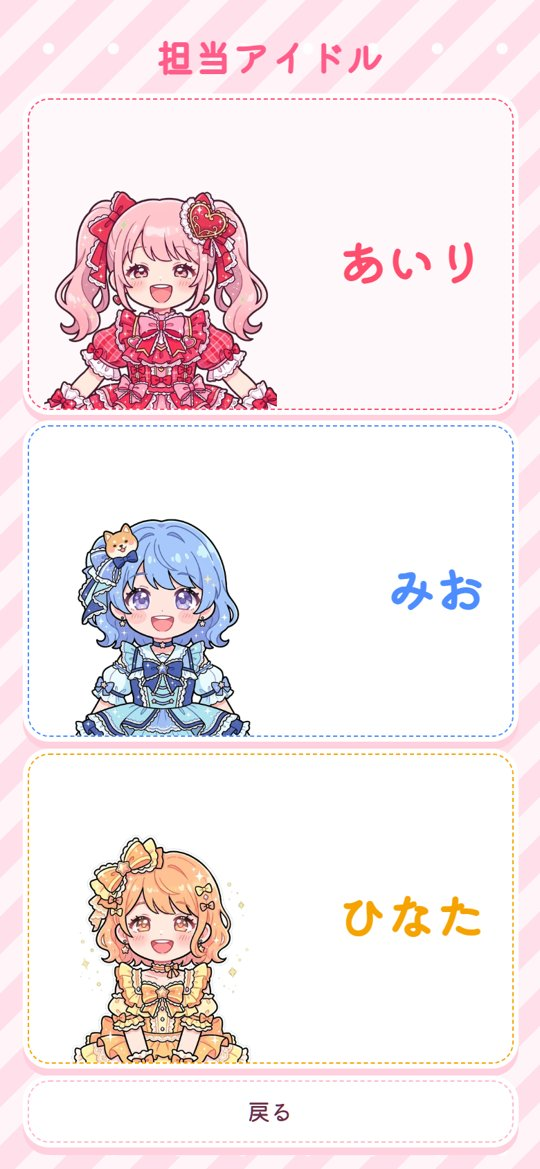
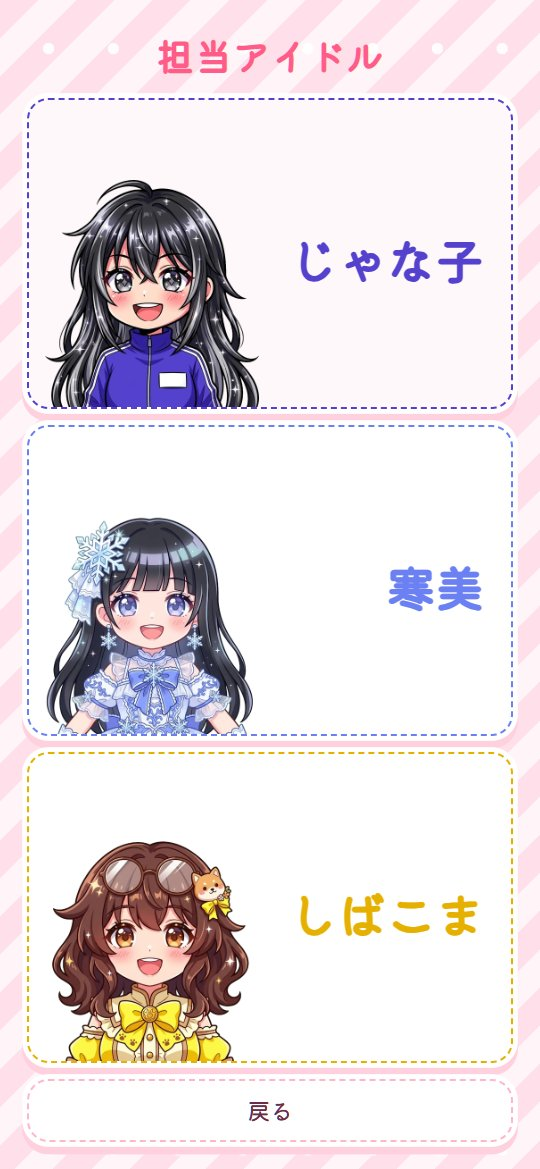
アイドルを3人入れ替え、シェアと時計別ハイスコアを追加
- 担当アイドルを じゃな子・寒美・しばこま に入れ替え（絵・名前・メンバーカラー）
- アイドルごとに台詞と機嫌の動き方を変えた（スコアの付き方は共通）
- ハイスコアを難易度×時計あり／なしで分けた。タイトルと結果に条件を表示
- 結果画面に「結果をシェア」を追加。下の段のボタンをアイコンにした
- README の画面写真と説明を更新

diff --git a/style.css b/style.css
@@ -91,6 +91,7 @@ button.primary {
 .seg button small { font-size: 3cqw; color: var(--mute); }
 .seg button.on { background: var(--accent-soft); border-color: var(--accent); font-weight: 700; }
 .wide { width: 100%; font-variant-numeric: tabular-nums; }
+.best-cond { text-align: center; font-size: 3.4cqw; color: var(--mute); margin-bottom: -2cqw; }
 .best { text-align: center; font-size: 4.2cqw; color: var(--mute); }
 .best b { color: var(--ink); font-size: 6cqw; margin-left: 2cqw; font-variant-numeric: tabular-nums; }
 .best .mini { margin-left: 3cqw; font-size: 3.2cqw; padding: 1cqw 2.5cqw; vertical-align: 0.6cqw; }
@@ -327,6 +328,7 @@ button.primary {
 /* ---------- 結果 ---------- */
 #result { gap: 2.5cqw; }
 .res-head { margin: 0; text-align: center; font-size: 6cqw; color: var(--accent); }
+.res-cond { text-align: center; font-size: 3.6cqw; color: var(--mute); margin-top: -2cqw; }
 .res-score { display: flex; align-items: baseline; justify-content: center; gap: 3cqw; }
 .res-score b { font-size: 12cqw; font-variant-numeric: tabular-nums; }
 .newbest { font-size: 3.4cqw; background: var(--gold); color: #fff; padding: 0.5cqw 2cqw; border-radius: 3cqw; font-weight: 700; }
@@ -335,7 +337,8 @@ button.primary {
 .res-grid b { font-size: 4.6cqw; font-variant-numeric: tabular-nums; }
 .res-idol { display: flex; align-items: center; gap: 3cqw; background: #fff; border-radius: 3cqw; padding: 2cqw 3cqw; }
 /* 結果画面は顔のアップだけ。3人の絵は共通の枠（art/make_idols.py）なので、顔の範囲も共通でよい。
-   元の絵（1024px）での顔の範囲：x 270〜750、y 170〜650 → 画像に対する割合に直して --d（丸の直径）から位置を出す */
+   img/idol-*.webp（幅480px）での顔の範囲：x 100〜380、y 90〜370 → 画像の幅に対する割合に直して --d（丸の直径）から位置を出す
+   （2026-10-23 に3人を入れ替えたとき測り直した） */
 .res-face {
   --d: 15.4cqw;
   position: relative;
@@ -351,9 +354,9 @@ button.primary {
 .res-face img {
   position: absolute;
   max-width: none;
-  width: calc(var(--d) / 0.46875);
-  left: calc(var(--d) * -0.5626);
-  top: calc(var(--d) * -0.300);
+  width: calc(var(--d) / 0.5833);
+  left: calc(var(--d) * -0.357);
+  top: calc(var(--d) * -0.321);
 }
 .res-who { display: flex; align-items: flex-start; gap: 1cqw; flex-shrink: 0; }
 .res-who .marks { position: static; font-size: 6cqw; animation: none; }
@@ -370,6 +373,9 @@ button.primary {
 /* C案のボタンは縁取りと影で上下にはみ出すので、段の間をあける */
 #result .row + .row { margin-top: 2.5cqw; }
 .row button { flex: 1; }
+/* 結果画面の下の段はアイコンだけ（名前は title と aria-label に持たせる） */
+.icon-row button { display: flex; align-items: center; justify-content: center; padding-left: 0; padding-right: 0; font-size: 3.4cqw; white-space: nowrap; }
+.icon-row svg { width: 7cqw; height: 7cqw; fill: none; stroke: currentColor; stroke-width: 2; stroke-linecap: round; stroke-linejoin: round; }
 
 /* ---------- タイミング調整 ---------- */
 #calib { gap: 3cqw; cursor: pointer; }

diff --git a/index.html b/index.html
@@ -37,6 +37,7 @@
       <button class="wide" id="btnCalib"><span id="offsetLabel">±0.000秒</span></button>
     </div>
 
+    <div class="best-cond" id="bestCond"></div>
     <div class="best">ハイスコア <b id="bestLabel">0</b><button class="mini" id="btnClearBest">クリア</button></div>
 
     <button class="primary" id="btnStart">スタート</button>
@@ -111,6 +112,7 @@
   <!-- 結果 -->
   <section id="result" class="screen hidden">
     <h2 class="res-head">本日の握手会 終了</h2>
+    <div class="res-cond" id="resCond"></div>
     <div class="res-score"><span class="k">スコア</span><b id="resScore">0</b><span class="newbest hidden" id="resNew">ハイスコア更新</span></div>
     <div class="res-grid">
       <div><span class="k">ピッタリ</span><b id="resPerfect">0/10</b></div>
@@ -130,9 +132,10 @@
     <div class="row">
       <button class="primary" id="btnAgain">もう一度</button>
     </div>
-    <div class="row">
-      <button id="btnToTitle">タイトル</button>
-      <button id="btnCopy">記録をコピー</button>
+    <div class="row icon-row">
+      <button id="btnToTitle" title="タイトル" aria-label="タイトル"><svg viewBox="0 0 24 24"><path d="M3 11l9-8 9 8"/><path d="M5 9.5V21h5v-6h4v6h5V9.5"/></svg></button>
+      <button id="btnShare" title="結果をシェア" aria-label="結果をシェア"><svg viewBox="0 0 24 24"><circle cx="18" cy="5" r="2.6"/><circle cx="6" cy="12" r="2.6"/><circle cx="18" cy="19" r="2.6"/><path d="M8.3 10.8l7.4-4.4M8.3 13.2l7.4 4.4"/></svg></button>
+      <button id="btnCopy" title="記録をコピー" aria-label="記録をコピー"><svg viewBox="0 0 24 24"><rect x="8" y="8" width="12" height="13" rx="2"/><path d="M16 8V5a2 2 0 0 0-2-2H6a2 2 0 0 0-2 2v11a2 2 0 0 0 2 2h2"/></svg></button>
     </div>
   </section>
 

diff --git a/README.md b/README.md
@@ -18,11 +18,12 @@
 ## 遊び方
 
 1. タイトル画面で難易度とストップウォッチの表示を選び、「スタート」
-2. 担当アイドルを3人（あいり・みお・ひなた）から選ぶ
+2. 担当アイドルを3人（じゃな子・寒美・しばこま）から選ぶ
 3. ファンが握手券を出します。**券1枚＝1秒**
 4. ファンの手が近づき、🤝 になった瞬間から心の中で数え始める
 5. ここだと思った瞬間に **スペースキー**（スマホは画面をタップ）で剥がす
 6. 10人で握手会は終わり。最後は券10枚の「太客」です。結果を見て、ハイスコアを狙いましょう
+7. 結果画面の下のボタンは左から「タイトルへ」「結果をシェア」「記録をコピー」。シェアはスマホなら LINE や X に送れます（パソコンでは文章をコピー）
 
 1回はおよそ75秒です。
 
@@ -43,10 +44,22 @@
 - **ピッタリ** → ファンもアイドルも喜びます。続けるほど点数が増えます
 - **太客**（最後の1人）は点数が3倍。早すぎ・遅すぎのときの機嫌の下がり方も3倍です
 
+## 担当アイドル
+
+点数の付き方は3人とも同じです。違うのは台詞と、機嫌の動き方です。
+
+| アイドル | 性格 | 機嫌 |
+|---|---|---|
+| じゃな子 | ジャージ姿の気さくな子 | 遅れに寛容。多少長引いても怒らない |
+| 寒美 | クールな子 | なかなか動かない。💕 を出せたら一人前 |
+| しばこま | 柴犬みたいに人懐っこい子 | 一喜一憂。すぐ 💕、すぐ 💢 |
+
 ## ストップウォッチ
 
 「表示」にすると、握手の間だけ大きな時計が出ます。針は**1周で1秒**、通ったところがピンクに塗られます。1秒の長さを体で覚える練習にどうぞ。
 「非表示」にすると、時計なしで数える本番です。押したあとに、押した秒数と目標との差が出ます。
+
+ハイスコアは、難易度と時計のあり・なしの組み合わせごとに別々に残ります。友だちと比べるなら「ノーマル・時計なし」がおすすめです。
 
 ## タイミング調整
 
